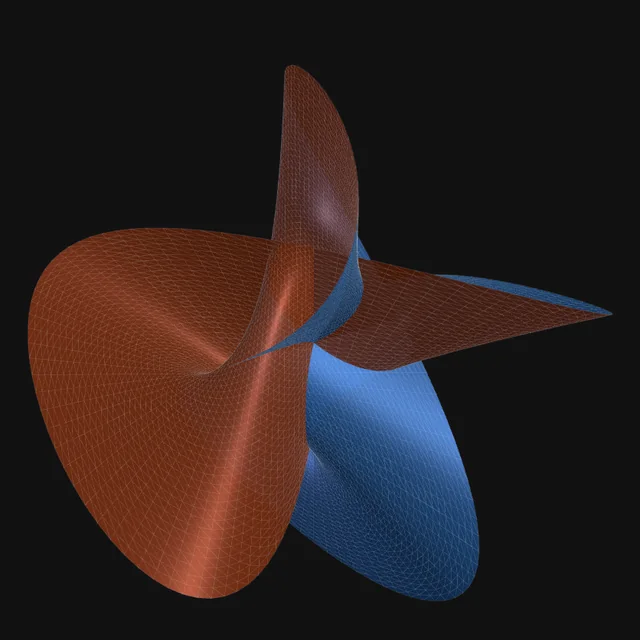
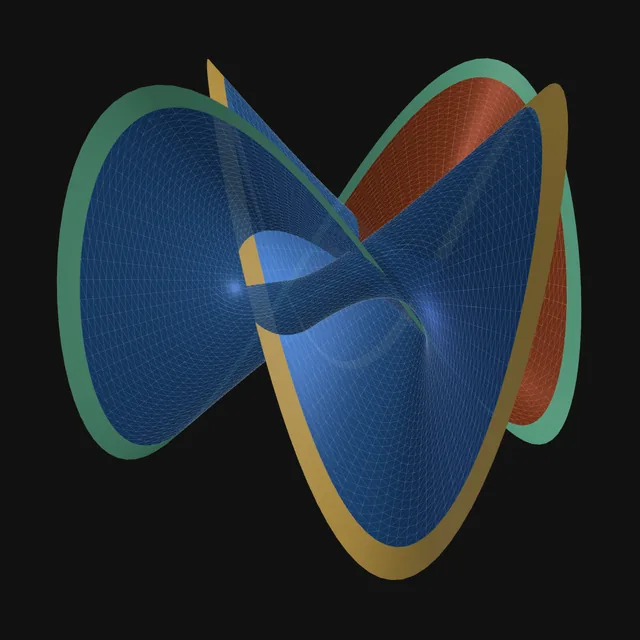
bugfix(home): Sphere Eversion tile shows the current Bednorz band demo at its Morin halfway point

diff --git a/index.html b/index.html
@@ -22,7 +22,7 @@ layout: default
 
   <figure class="hero-figures">
     <a class="hero-fig" href="/blog/series/sphere-eversion">
-      <img src="/images/home/sphere-eversion.webp" width="640" height="640" fetchpriority="high" alt="The halfway point of a sphere eversion: an orange and blue surface passing through itself">
+      <img src="/images/home/sphere-eversion.webp?v=c677788a" width="640" height="640" fetchpriority="high" alt="Morin's halfway model of a sphere eversion: a band, blue on one side and orange on the other, passing through itself, with its two rims in gold and green">
       <span class="hero-fig-label">Sphere Eversion</span>
     </a>
     <a class="hero-fig" href="/blog/series/abel-ruffini">
